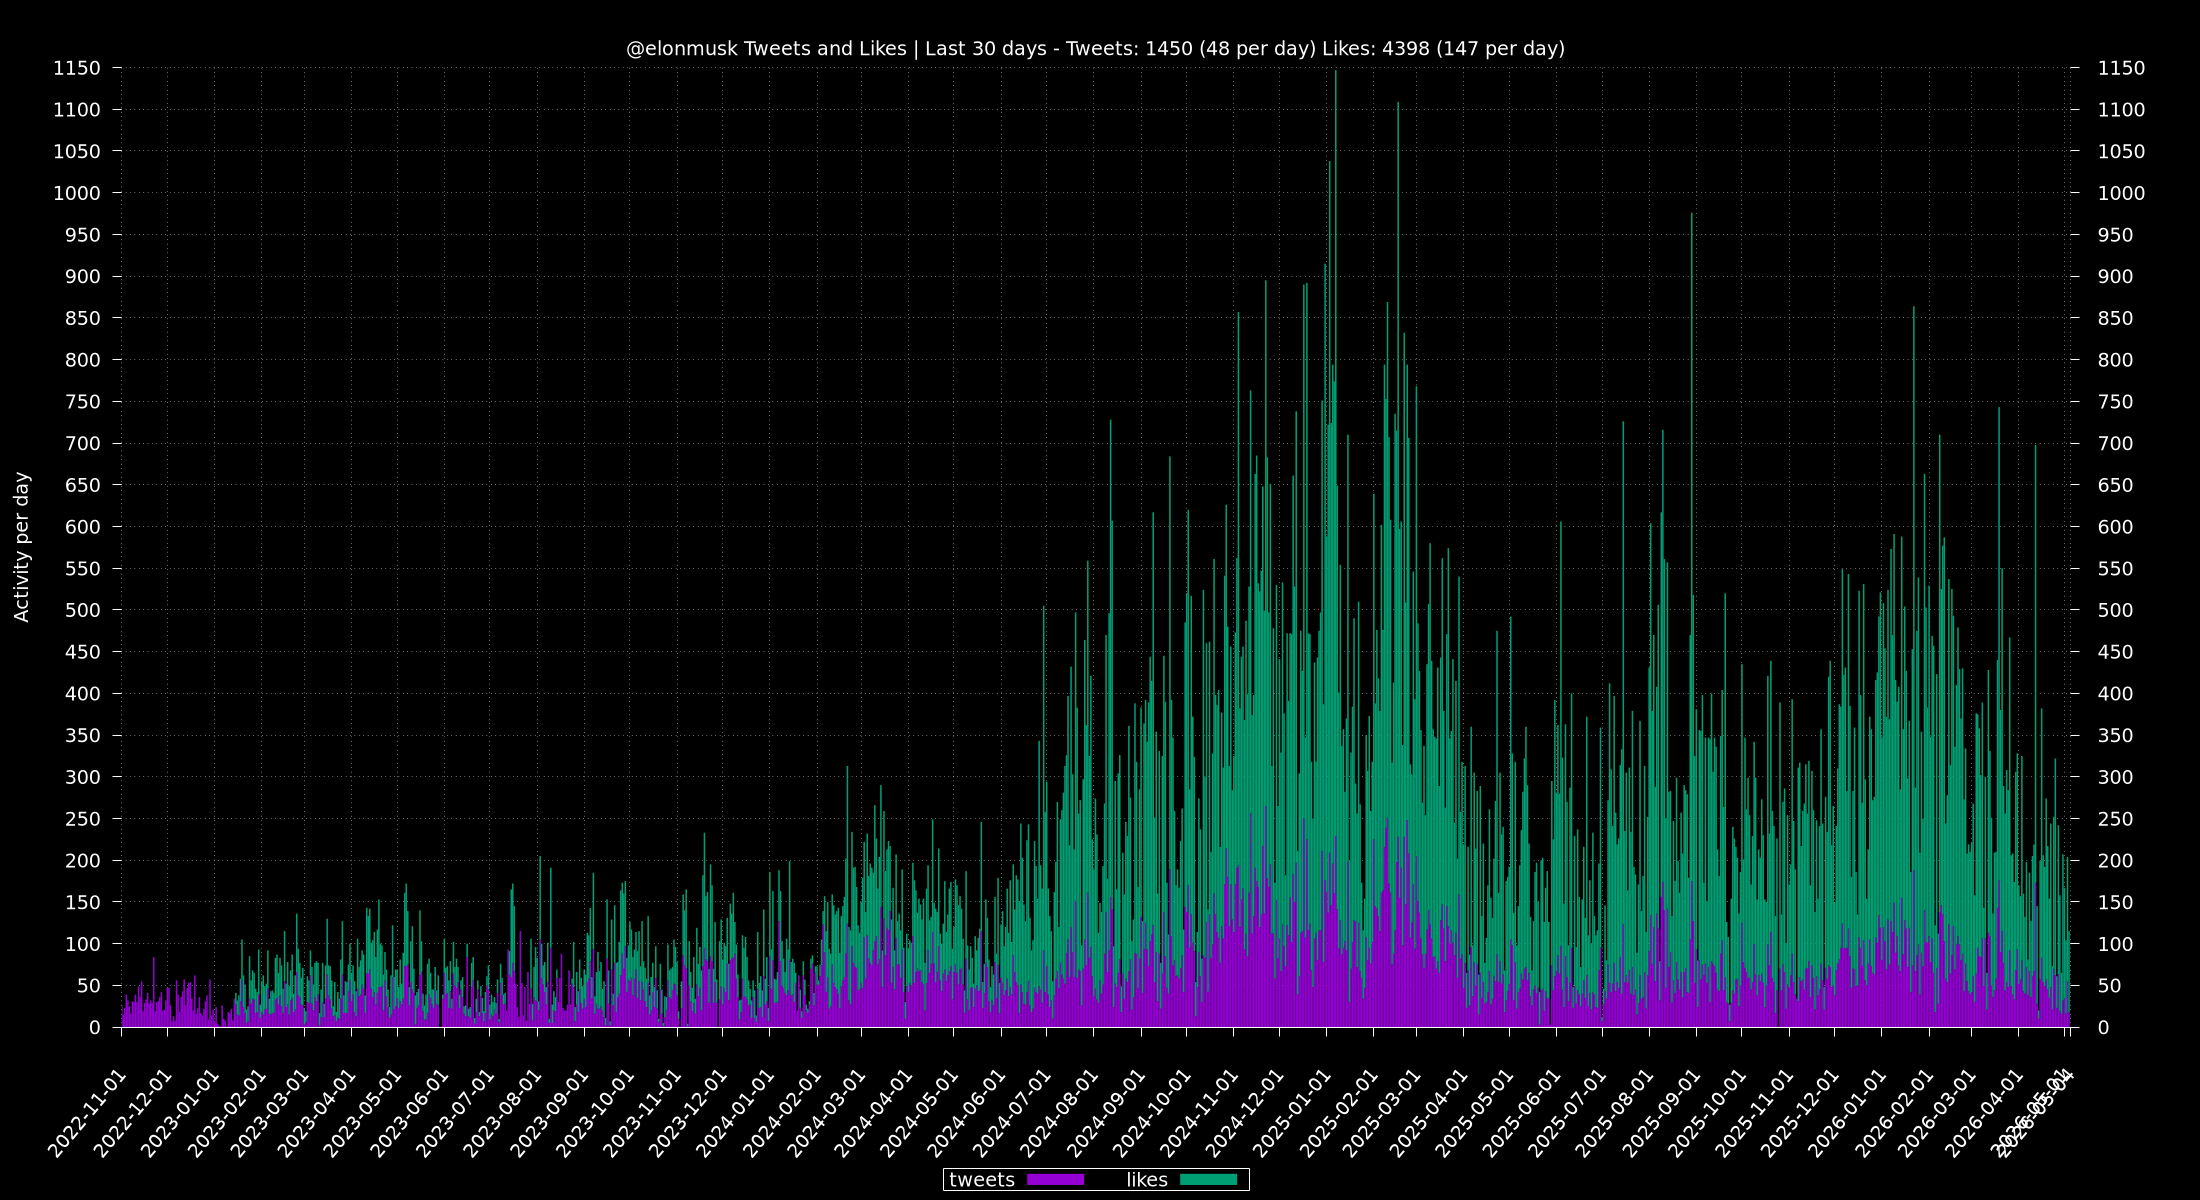
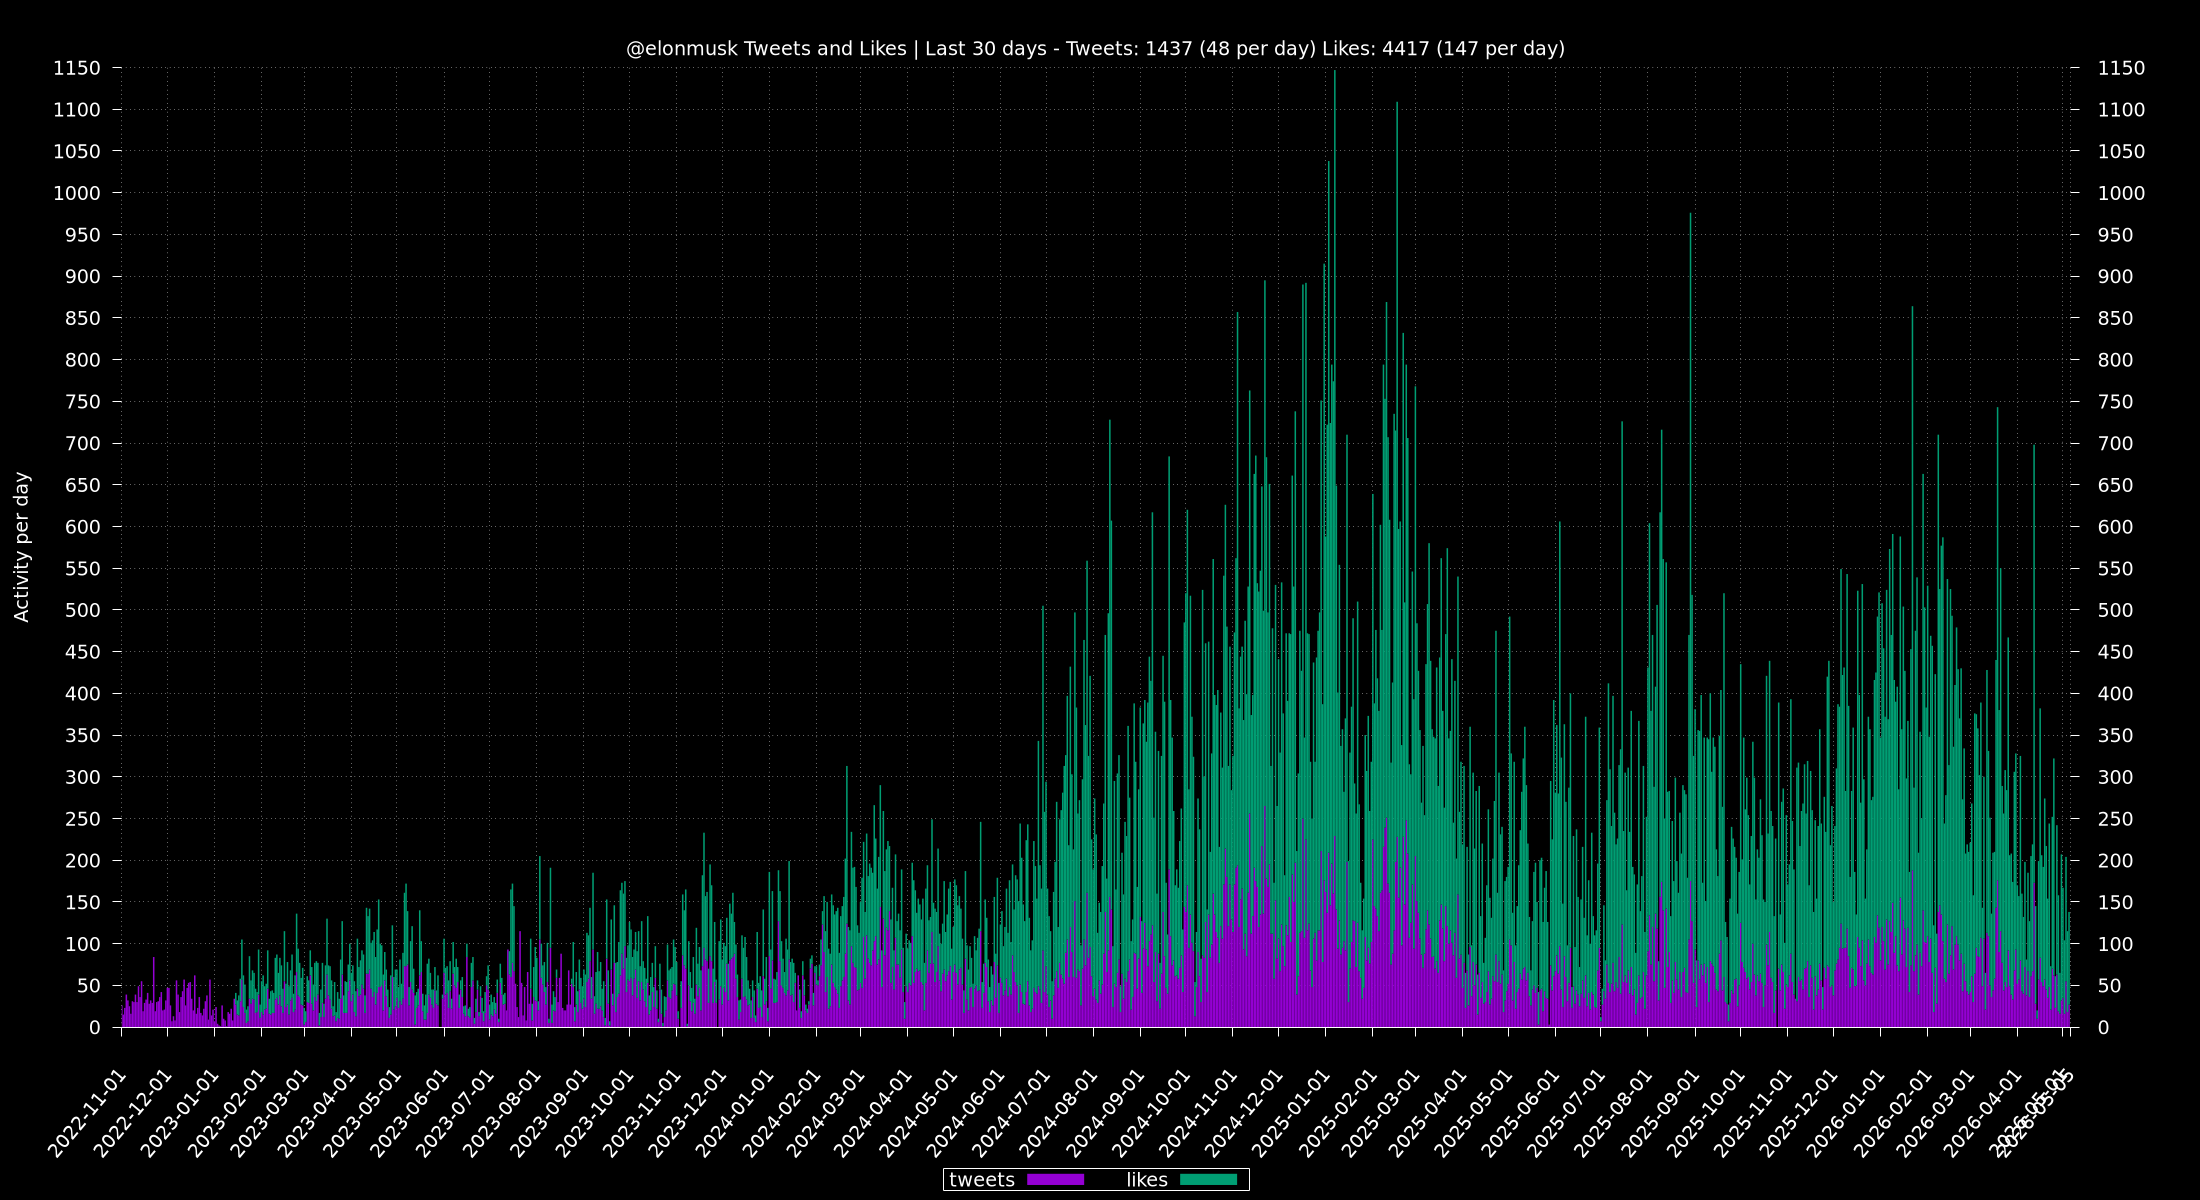
update via cron

Changed region(s): [[0.1236, 0.2158, 0.9582, 0.8633], [0.1855, 0.8942, 0.9582, 0.9558], [0.6182, 0.0308, 0.6491, 0.0617]]

diff --git a/totals/README.md b/totals/README.md
@@ -1,6 +1,6 @@
 ## Last 30 Days
-Tweets: 1450 (48 per day)\
-Likes: 4398 (147 per day)
+Tweets: 1437 (48 per day)\
+Likes: 4417 (147 per day)
 
 ## 24 Hours
 Max: [**341**](../misc/most-tweets_24-hr.csv) - From `2024-11-23 14:29:53 CST` To `2024-11-24 14:28:44 CST`